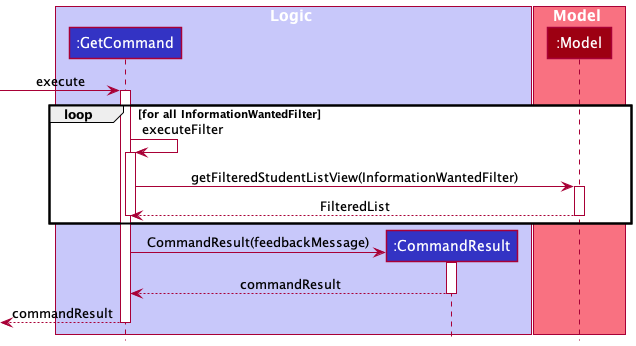
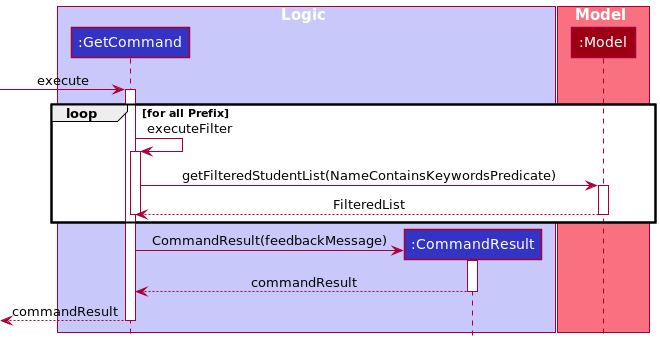
Update DG for getCommand

diff --git a/src/main/java/seedu/academydirectory/logic/commands/GetCommand.java b/src/main/java/seedu/academydirectory/logic/commands/GetCommand.java
@@ -66,6 +66,9 @@ public class GetCommand extends Command {
         requireNonNull(prefixList);
         requireNonNull(keywordList);
 
+        // Checks done at GetCommandParser
+        assert !prefixList.isEmpty();
+
         this.nameContainsKeywordsPredicate = keywordList.isEmpty()
                 ? null
                 : new NameContainsKeywordsPredicate(keywordList);

diff --git a/docs/DeveloperGuide.md b/docs/DeveloperGuide.md
@@ -233,22 +233,22 @@ This command deletes a `Student` from `AcademyDirectory`.
 {Add implementation}
 
 ### GetCommand
-This command serves to retrieve a specific `Information` of students.
+This command serves to retrieve a specific `PersonalDetail` of students or a student.
 
 #### Implementation
 `GetCommand` will extend the `Command` class and will consequently `@Override` the `Command#execute()` method to serve the aforementioned purpose.
 
-All fields of `Student` class which implements the `Information` interface and whose prefix is present in the `InformationWantedFunction` class
-can be queried by `GetCommand`. Hence, for an `Information` to be query-able, it _must_ implement the `Information` interface and its prefix needs
-to be added to the list of supported prefix under `InformationWantedFunction`. If at least one of the two conditions are not fulfilled, compile errors
-will be thrown. The following is the class diagram for `GetCommand`.
+All fields of `Student` class which implements the `PersonalDetail` interface and whose prefix is present in
+the `GetCommand` class can be queried by `GetCommand`.
 
-A `GetCommand` is initialized with a list of `InformationWantedFunction` objects to retrieve the necessary information. Obtaining the queried information
-is done by using the `InformationWantedFunction` objects on all `Student` objects in the model. The specific is shown in the sequence diagram below:
+A `GetCommand` is initialized with a list of `Prefix` objects which represents the prefix of the `PersonalDetail`
+to be retrieved, and a list of `String` which represents the keywords that will be matched with 
+the names of students in Academy Directory. List of `Prefix` cannot be empty, but list of keywords can be.
+An empty list of keywords is interpreted as retrieving personal details of all students in the model.
+The specifics are shown in the sequence diagram below:
 
-![GetCommandSequenceDiagram](images/dg/logic/commands/getcommand/GetCommandSequenceDiagram.png)
-
-Exactly which field of `Student` should be retrieved is determined by the `Prefix` passed into `InformationWantedFunction` during its creation.
+A `PersonalDetailRetriever` object can be constructed by passing a `Prefix` and a `Name
+![GetCommandSequenceDiagram](images/logic/commands/getcommand/GetCommandSequenceDiagram.png)
 
 ### EditCommand
 
